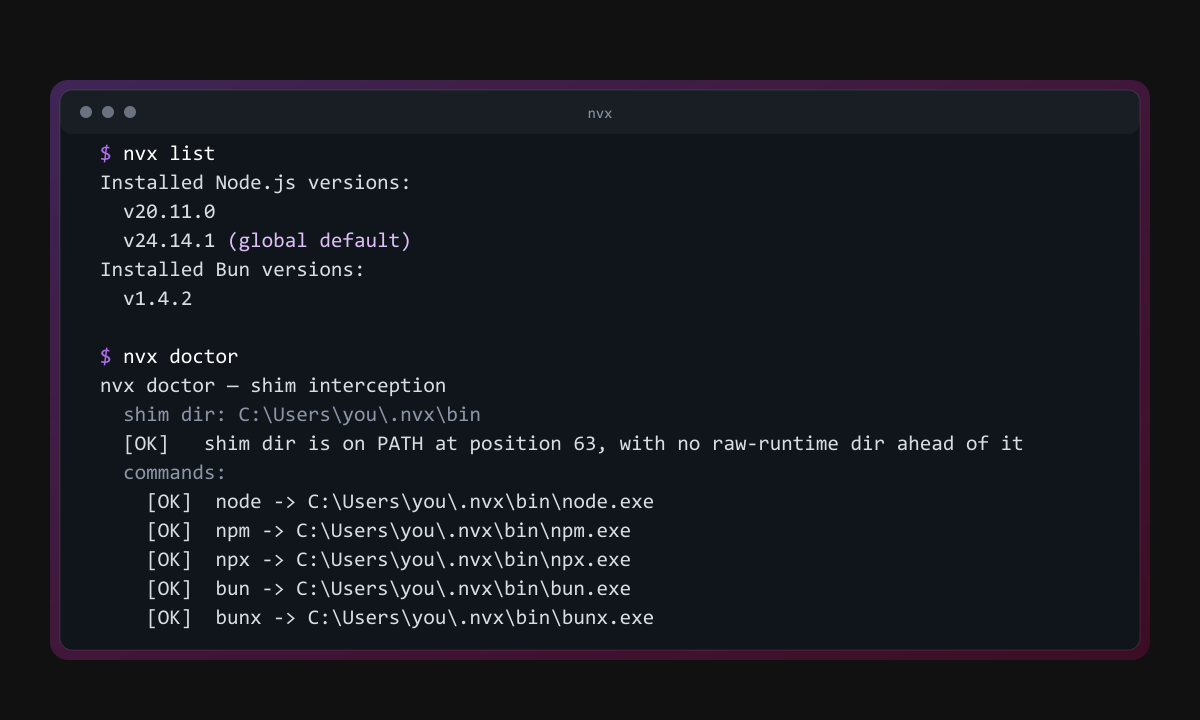
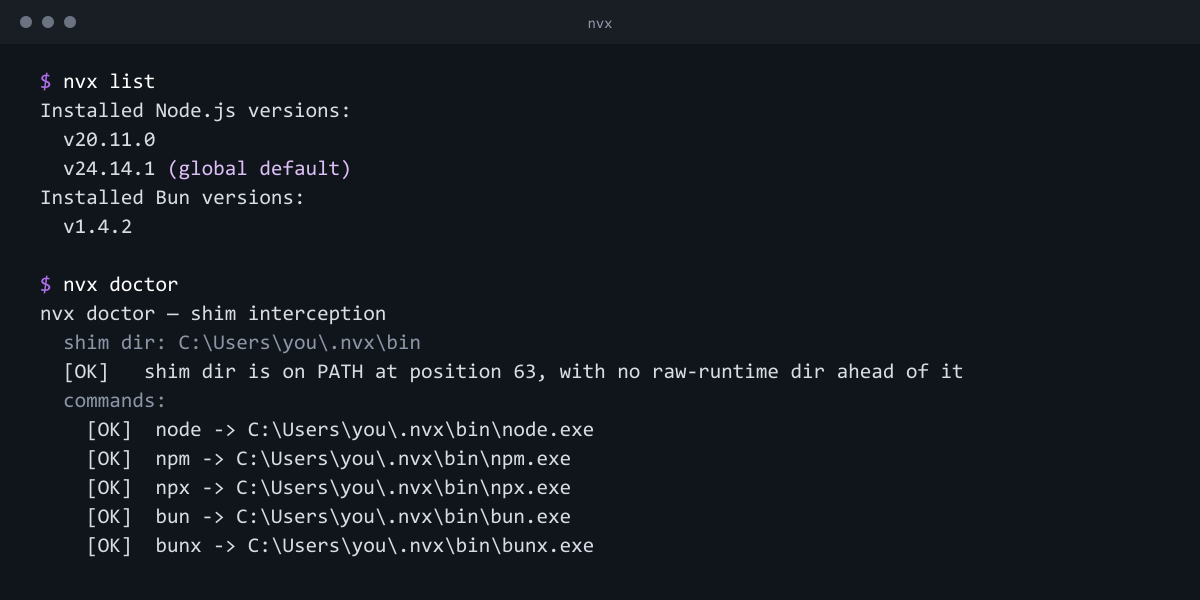
Put the terminal beside the hero copy, and stop framing a framed image
The landing layout switches to 'split', which the template already supported:
copy left, shot right, sections below closer together. Centred read as an
announcement; this reads as a tool.

The hero image was drawing its own window chrome, rounded border and purple
glow, and .bigshot then framed all of that again -- a box inside a box. The
generator now emits the terminal full-bleed and lets the template's frame do
the framing, which is the arrangement .bigshot was written for. Canvas trimmed
from 720 to 600 as well: the old one ran 200px past the last line of output.

The nvx column in the reach table lost its background tint. At 5% the accent
composited the cell to rgb(39,40,53), where accent text measures 4.34:1
against a 4.5 floor, and the rendered contrast sweep failed all eight cells.
The outline carries the column on its own: 4.64:1 dark, 7.14:1 light.

Changed region(s): [[0.0308, 0.09, 0.9558, 0.93], [0.0, 0.03, 0.0617, 0.06], [0.4933, 0.03, 0.5242, 0.06]]

diff --git a/site/src/data/site-content/hero.ts b/site/src/data/site-content/hero.ts
@@ -11,7 +11,7 @@ export const hero: Hero = {
   heroImage: '/assets/hero.png',
   heroImageAlt: 'A terminal showing nvx list and nvx doctor: installed Node.js and Bun versions, and every shim reporting OK',
   heroImageWidth: 1200,
-  heroImageHeight: 720,
+  heroImageHeight: 600,
   sourceUrl: 'https://github.com/fstubner/nvx',
   downloadLabel: 'Desktop app',
   downloadMenuLabel: 'Choose desktop installer',

diff --git a/site/src/data/site-content/sections.ts b/site/src/data/site-content/sections.ts
@@ -26,4 +26,4 @@ export const sections: LandingSection[] = ['hero', 'surfaces', 'reach', 'install
 // Both use the same content and the same components. Below 900px they are
 // the same page, because there is only one sensible arrangement of a
 // headline and a picture on a phone.
-export const landingLayout: LandingLayout = 'centered';
+export const landingLayout: LandingLayout = 'split';
